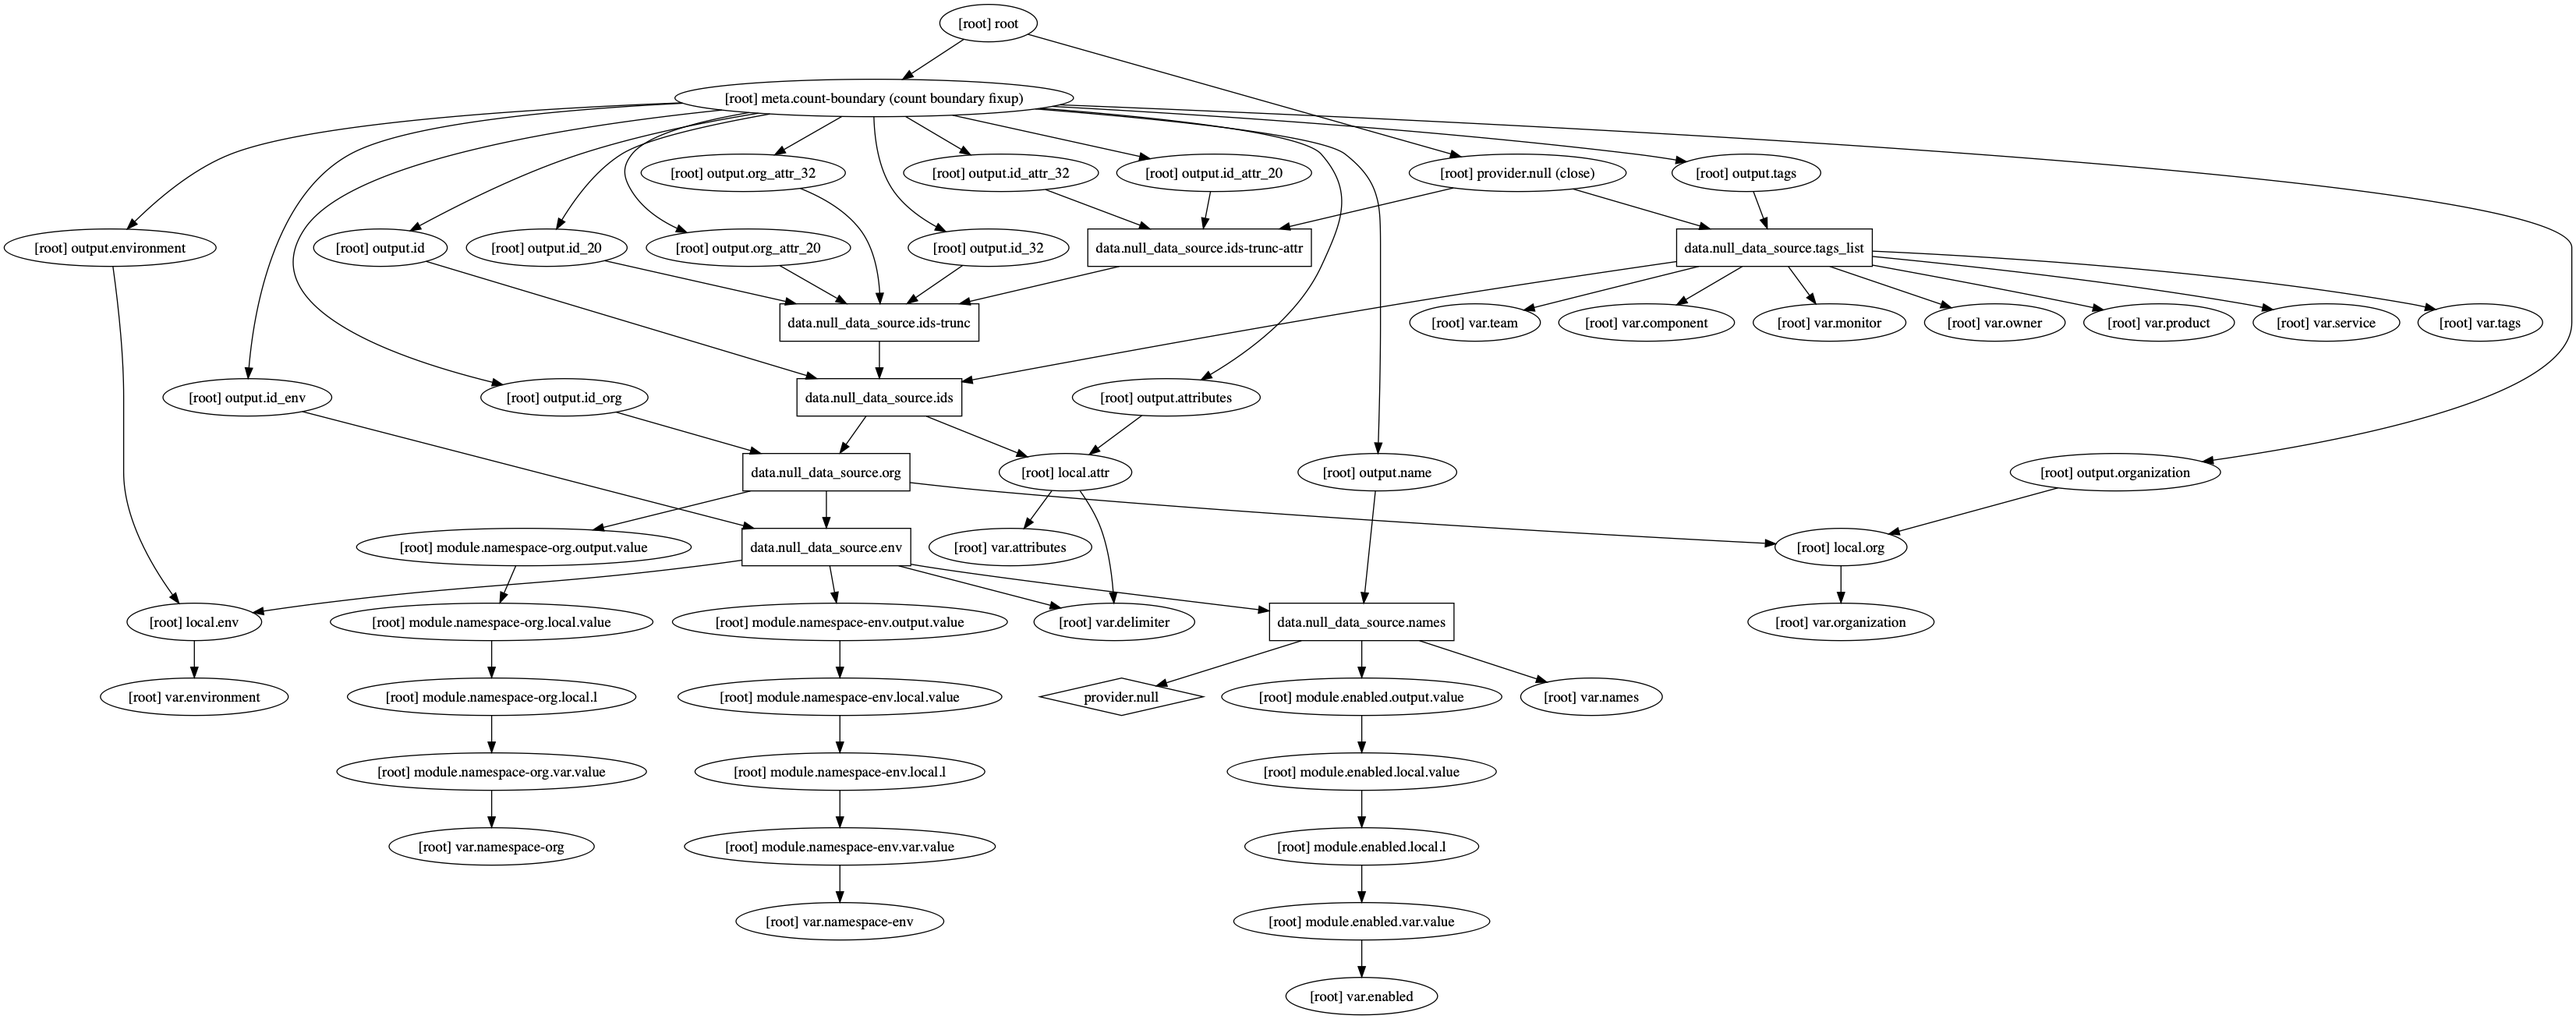
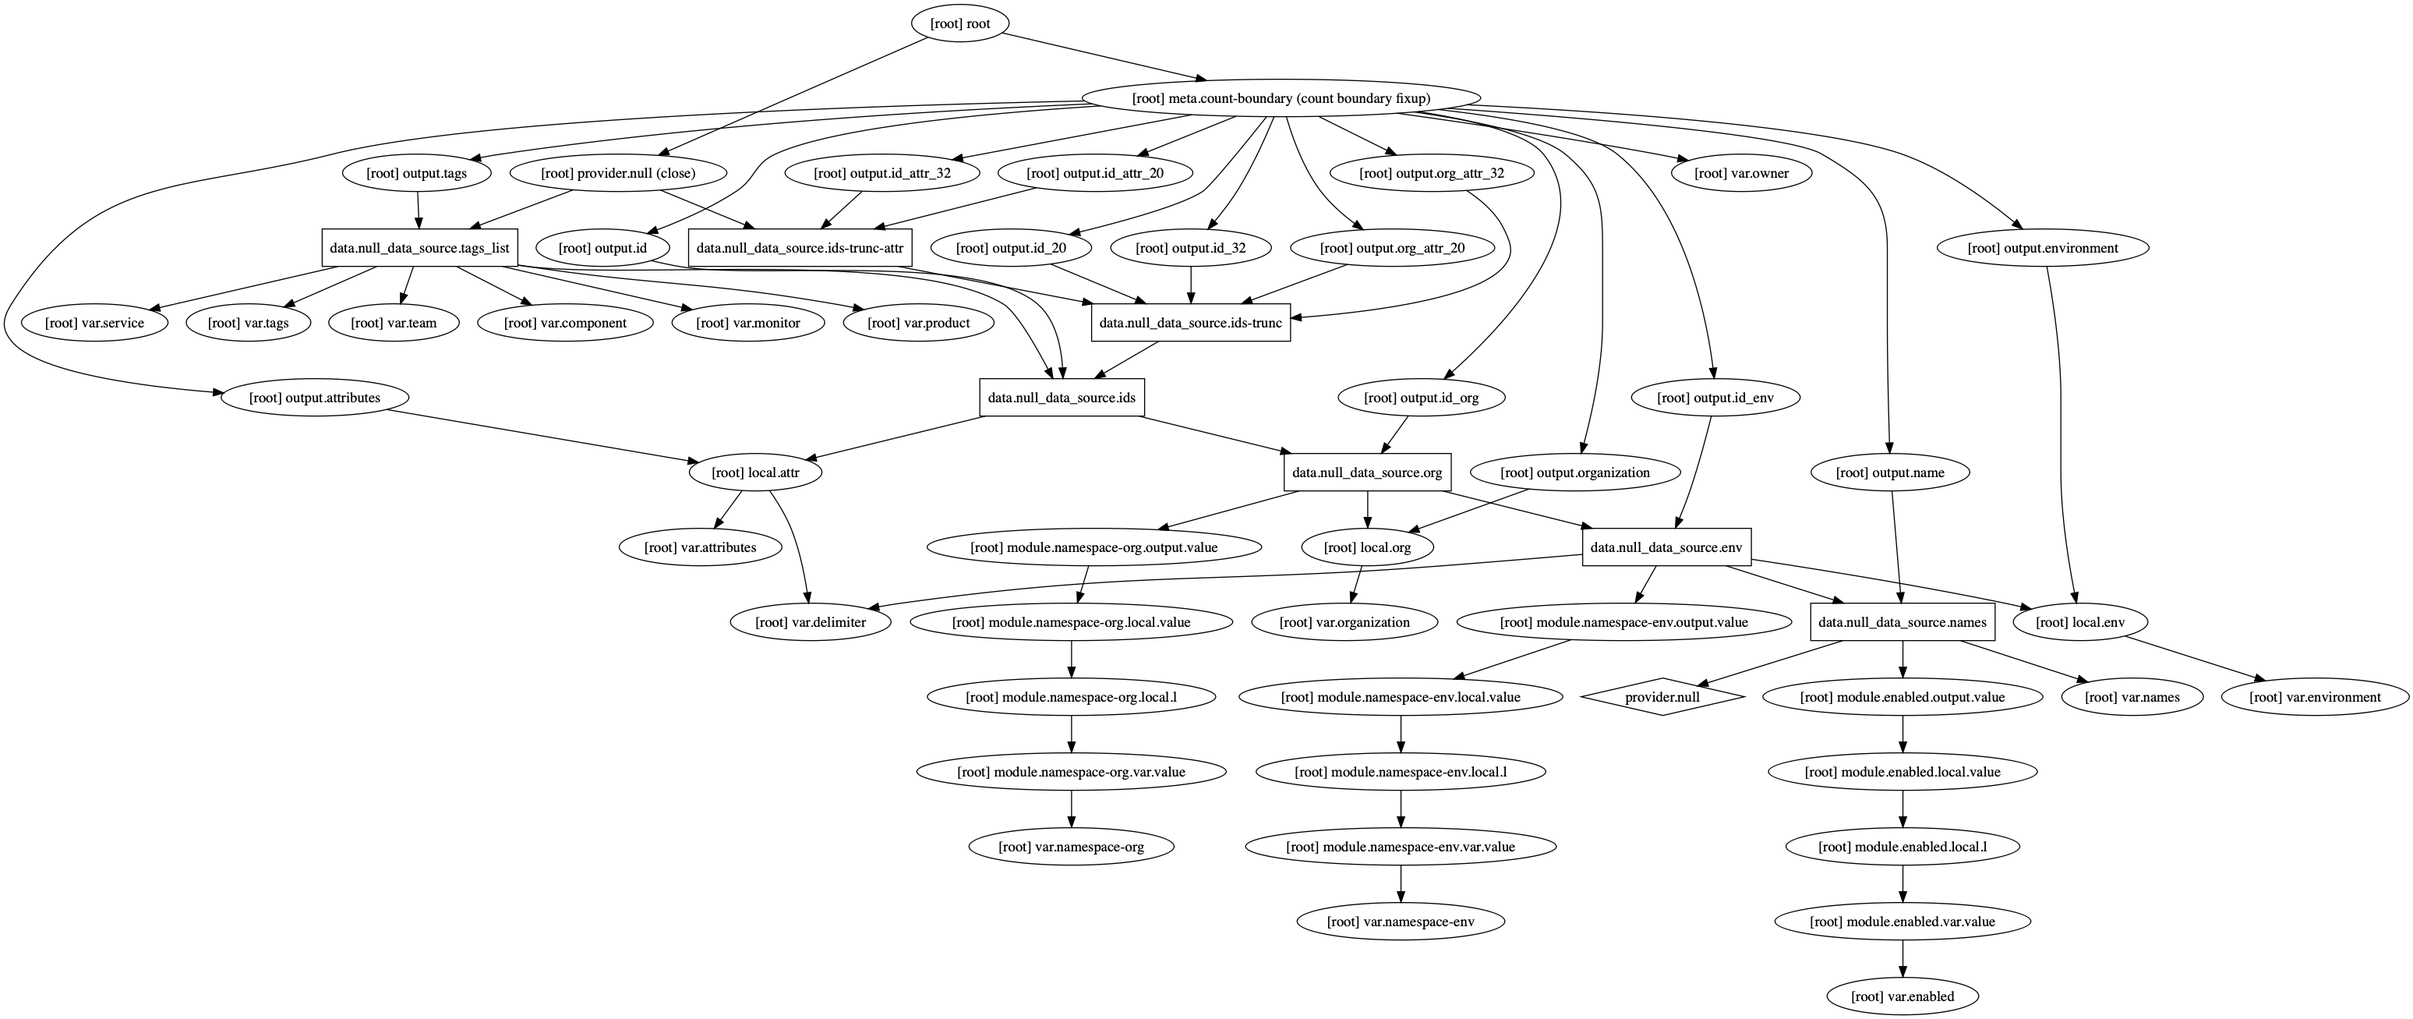
Remove owner tag

diff --git a/README.md b/README.md
@@ -96,20 +96,20 @@ module "labels" {
 | Name | Description | Type | Default | Required |
 |------|-------------|:----:|:-----:|:-----:|
 | attributes | Suffix name with additional attributes (policy, role, etc.) | list | `<list>` | no |
-| component | TAG: Underlying, dedicated piece of service (Cache, DB, ...) | string | `UNDEF` | no |
-| delimiter | Delimiter to be used between `name`, `namespaces`, `attributes`, etc. | string | `-` | no |
-| enabled | Set to false to prevent the module from creating anything | string | `true` | no |
-| environment | Environment (ex: `dev`, `qa`, `stage`, `prod`). (Second or top level namespace. Depending on namespacing options) | string | - | yes |
-| monitor | TAG: Should resource be monitored | string | `UNDEF` | no |
-| names | Base names for resources | list | - | yes |
-| namespace-env | Prefix name with the environment. If true, format is: [env]-[name] | string | `true` | no |
-| namespace-org | Prefix name with the organization. If true, format is: [org]-[env namespaced name]. If both env and org namespaces are used, format will be [org]-[env]-[name] | string | `false` | no |
-| organization | Organization name (Top level namespace) | string | `` | no |
-| owner | TAG: Owner of the service | string | `UNDEF` | no |
-| product | TAG: Company/business product | string | `UNDEF` | no |
-| service | TAG: Application (microservice) name | string | `UNDEF` | no |
+| component | TAG: Underlying, dedicated piece of service (Cache, DB, ...) | string | `"UNDEF"` | no |
+| delimiter | Delimiter to be used between `name`, `namespaces`, `attributes`, etc. | string | `"-"` | no |
+| enabled | Set to false to prevent the module from creating anything | string | `"true"` | no |
+| environment | Environment (ex: `dev`, `qa`, `stage`, `prod`). (Second or top level namespace. Depending on namespacing options) | string | n/a | yes |
+| monitor | TAG: Should resource be monitored | string | `"UNDEF"` | no |
+| names | Base names for resources | list | n/a | yes |
+| namespace-env | Prefix name with the environment. If true, format is: [env]-[name] | string | `"true"` | no |
+| namespace-org | Prefix name with the organization. If true, format is: [org]-[env namespaced name]. If both env and org namespaces are used, format will be [org]-[env]-[name] | string | `"false"` | no |
+| organization | Organization name (Top level namespace) | string | `""` | no |
+| owner | TAG: Owner of the service | string | `"UNDEF"` | no |
+| product | TAG: Company/business product | string | `"UNDEF"` | no |
+| service | TAG: Application (microservice) name | string | `"UNDEF"` | no |
 | tags | A map of additional tags | map | `<map>` | no |
-| team | TAG: Department/team of people responsible for service | string | `UNDEF` | no |
+| team | TAG: Department/team of people responsible for service | string | `"UNDEF"` | no |
 
 ## Outputs
 
@@ -128,7 +128,7 @@ module "labels" {
 | org\_attr\_20 | Internal debugging. DO NOT USE |
 | org\_attr\_32 | Internal debugging. DO NOT USE |
 | organization | Organization name lowercase |
-| tags | - |
+| tags |  |
 
 <!-- END OF PRE-COMMIT-TERRAFORM DOCS HOOK -->
 <!-- BEGINNING OF PRE-COMMIT-TERRAFORM GRAPH HOOK -->
